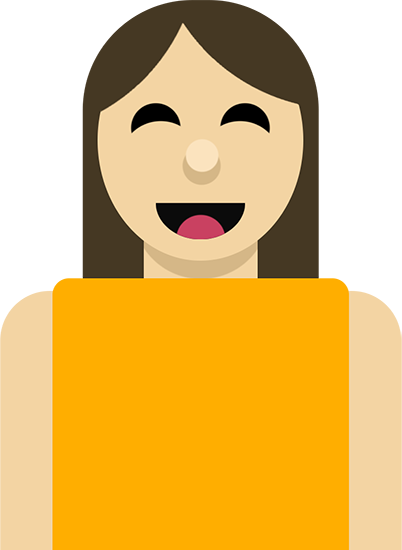
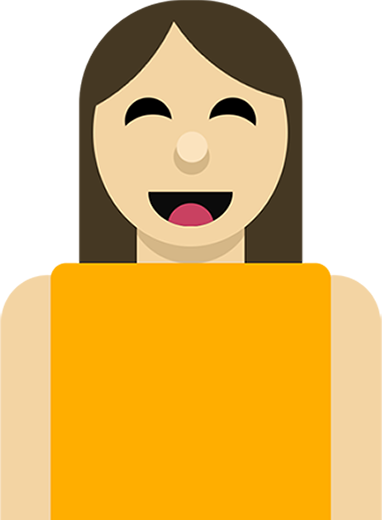
p2: adding a clickable image/button to the interactive page
- clickable images/buttons lead to Indigenous practicing beadwork artist pages

diff --git a/Projects/Project 2/project 2/js/script.js b/Projects/Project 2/project 2/js/script.js
@@ -1295,7 +1295,7 @@ function sceneSwitcher() {
 
 function speakerCharacter() {
   //loading character animation when NOT speaking
-  introCharacter = createSprite(1200, 1200, 100, 100);
+  introCharacter = createSprite(1000, 600, 100, 100);
   introCharacter.addAnimation("notSpeaking", "assets/images/girlStandard.png");
   //loading chracter animation when speaking
   introCharacter.addAnimation(

diff --git a/Projects/Project 2/project 2/css/style.css b/Projects/Project 2/project 2/css/style.css
@@ -32,3 +32,16 @@ body {
 #button_1 img {
   width: 100%;
 }
+
+#button_2 {
+  width: 80px;
+  position: absolute;
+  z-index: 5;
+  tops: 15vw;
+  left: 15vw;
+  display: none;
+}
+
+#button_2 img {
+  width: 100%;
+}
